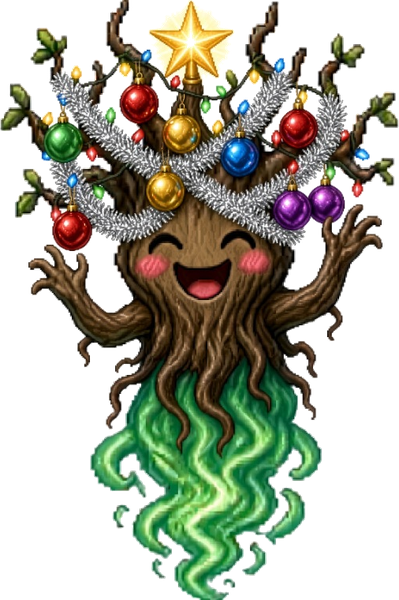
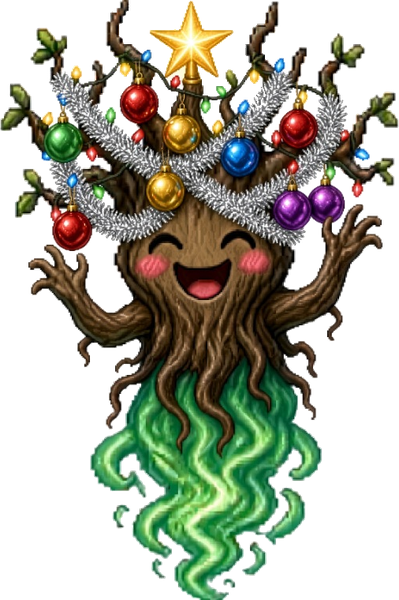
Древень: убран ореол и белые пятна у звезды
Claude-Session: https://claude.ai/code/session_016vnxAXxP6rRycVd2Q33YK3

Changed region(s): [[0.391, 0.0, 0.5714, 0.15], [0.6316, 0.12, 0.6617, 0.18]]

diff --git a/test/index.html b/test/index.html
@@ -11,5 +11,5 @@
 <header><h1>📜 Команды для чата</h1><input id="q" type="search" placeholder="Поиск команды: поход, грядка, босс…" aria-label="Поиск"><nav id="nav"></nav></header>
 <main id="list"></main></details>
 <footer>Кнопки выполняют действие от вашего Twitch-ника, без сообщений в чат. Результат показывается под кнопками.</footer>
-<script src="config.js"></script><script src="commands.js?v=bs528"></script><script src="test/actions.js?v=t22"></script><script src="img/h/heroes.js?v=h8b"></script><script src="sprites.js?v=live5"></script><script src="test/panel.js?v=t2"></script><script src="app.js"></script><script src="season.js?v=tr495"></script><script src="test/live6.js?v=t3"></script><script src="changelog.js?v=live32"></script><script src="test/bigscreen.js?v=t12"></script><script src="test/fish.js?v=t1"></script><script src="test/xe.js?v=t21"></script><script src="test/wint.js?v=t2"></script><script src="test/hor.js?v=t15"></script><script src="test/music.js?v=t3"></script>
+<script src="config.js"></script><script src="commands.js?v=bs528"></script><script src="test/actions.js?v=t22"></script><script src="img/h/heroes.js?v=h8b"></script><script src="sprites.js?v=live5"></script><script src="test/panel.js?v=t2"></script><script src="app.js"></script><script src="season.js?v=tr495"></script><script src="test/live6.js?v=t3"></script><script src="changelog.js?v=live32"></script><script src="test/bigscreen.js?v=t13"></script><script src="test/fish.js?v=t1"></script><script src="test/xe.js?v=t21"></script><script src="test/wint.js?v=t2"></script><script src="test/hor.js?v=t15"></script><script src="test/music.js?v=t3"></script>
 </body></html>

diff --git a/test/bigscreen.js b/test/bigscreen.js
@@ -1844,8 +1844,8 @@
       if (show && !im) { im = document.createElement('img'); im.id = 'bsTreant'; im.src = 'img/winter/treant.png?v=w1'; im.alt = 'Древень'; im.style.cssText = 'position:absolute;left:93.2%;top:62.5%;height:30.5%;transform:translate(-50%,-100%);pointer-events:none;z-index:3;filter:drop-shadow(0 6px 8px rgba(0,0,0,.45))'; sc.appendChild(im); }
       if (im) im.style.display = show ? '' : 'none';
       { const stg = Math.max(0, Math.min(5, +(wn && wn.st) || 0)); // 27.11: Древень по этапам украшения — отдельные картинки (Grok)
-        if (im) { const u = stg ? `img/winter/treant_s${stg}.png?v=1` : 'img/winter/treant.png?v=w1'; if (im.dataset.u !== u) { im.dataset.u = u; im.src = u; } }
-        if (im2) { const u2 = `img/winter/treant_h${stg}.png?v=1`; if (im2.dataset.u !== u2) { im2.dataset.u = u2; im2.src = u2; } } }
+        if (im) { const u = stg ? `img/winter/treant_s${stg}.png?v=2` : 'img/winter/treant.png?v=w1'; if (im.dataset.u !== u) { im.dataset.u = u; im.src = u; } }
+        if (im2) { const u2 = `img/winter/treant_h${stg}.png?v=2`; if (im2.dataset.u !== u2) { im2.dataset.u = u2; im2.src = u2; } } }
       if (im && wn) im.title = `Древень · наряжен ${wn.st}/5`; } catch (e) {} }, 1000);
 })();
 
